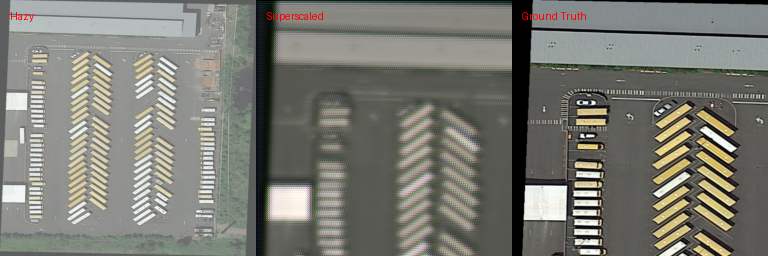
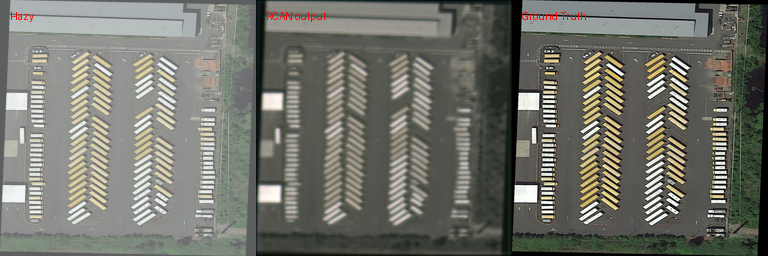
Update to image output resizing to 256

diff --git a/trainers/trainer_rcan.py b/trainers/trainer_rcan.py
@@ -85,18 +85,23 @@ class RCANTrainer(Trainer):
                 output = model(hazy)
                 output = torch.clamp(output, 0, 1)
 
+                # print("H:",hazy.shape)
+                # print("O:",output.shape)
+                # print("C:",clear.shape)
+
+
                 for i in range(num_samples):
                     if count >= num_samples:
                         break
                     print(f'Saving image {i}')
                     hazy_img = label_image(to_pil(hazy[i].cpu()), "Hazy")
-                    superscaled_img = label_image(to_pil(output[i].cpu()), "Superscaled")
-                    gt_img = label_image(to_pil(clear[i].cpu()), "Ground Truth")
+                    rcaned_img = label_image(to_pil(output[i].cpu()).resize((256,256),Image.LANCZOS), "RCAN output")
+                    gt_img = label_image(to_pil(clear[i].cpu()).resize((256,256),Image.LANCZOS), "Ground Truth")
 
                     width, height = hazy_img.size
                     combined = Image.new("RGB", (width * 3, height))
                     combined.paste(hazy_img, (0, 0))
-                    combined.paste(superscaled_img, (width, 0))
+                    combined.paste(rcaned_img, (width, 0))
                     combined.paste(gt_img, (width * 2, 0))
 
                     combined.save(os.path.join(save_dir, f"output_comparison_rcan_{i}.png"))
